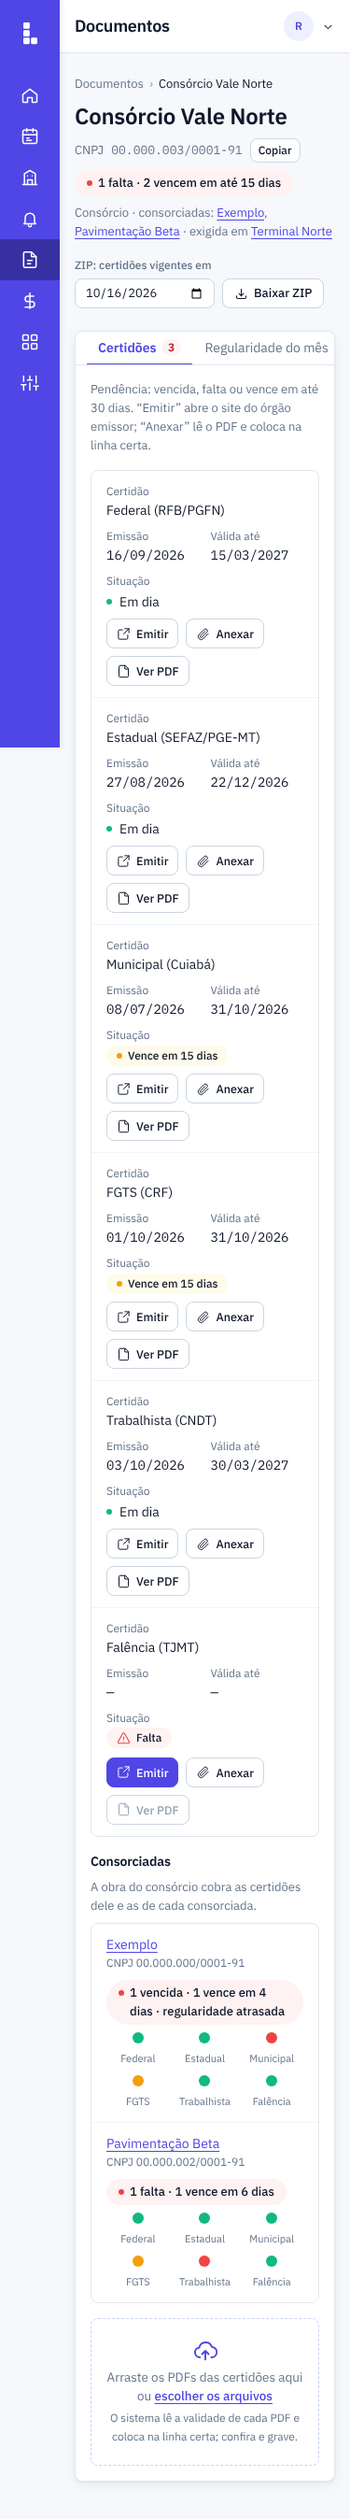
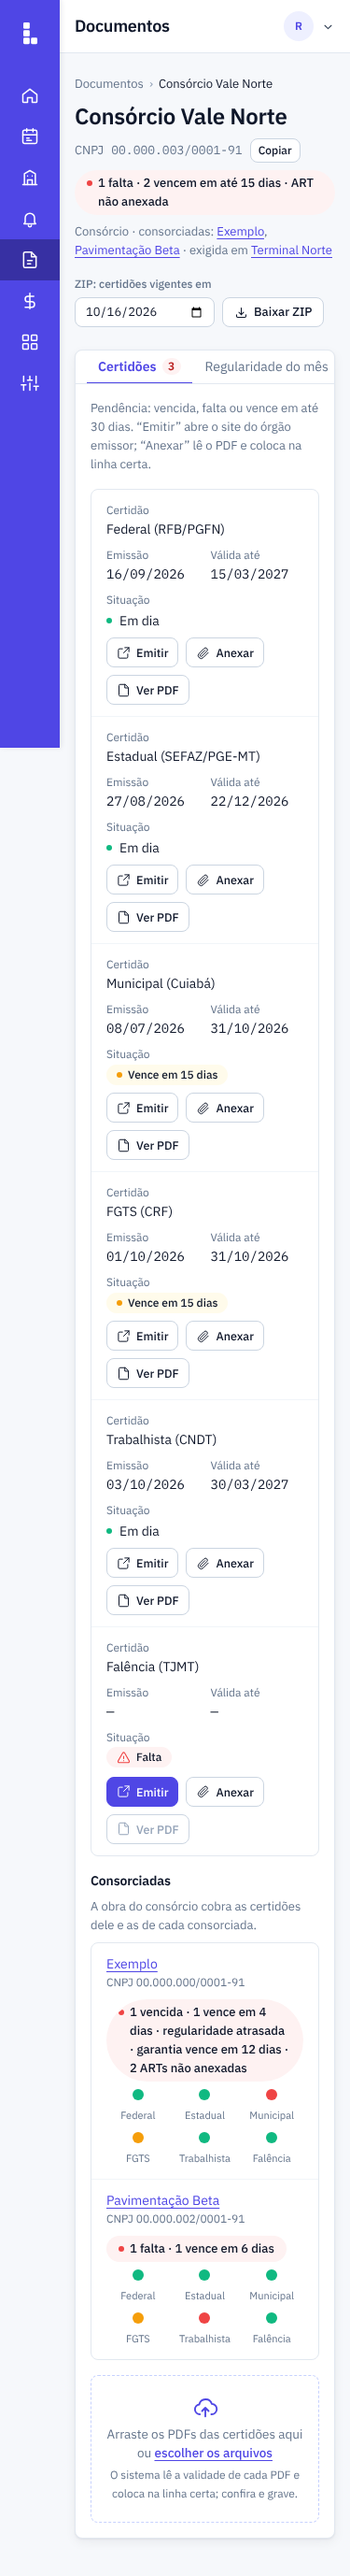
fix: obra sempre visivel em Documentos, pendencia de garantia e ART, redirecionamento e fuso (#161)
Claude-Session: https://claude.ai/code/session_01CFo7T1SbSusYsbRstiKcgn

diff --git a/frontend/src/matriz.ts b/frontend/src/matriz.ts
@@ -31,18 +31,33 @@ export function certidaoPendente(l: LinhaCertidao): boolean {
   return (l.situacao === "ok" || l.situacao === "vencendo") && l.dias !== null && l.dias <= JANELA_DIAS;
 }
 
-/** Quantas pendencias a empresa tem: as certidoes e a regularidade do mes que nao esta' em dia. */
-export function pendenciasDa(e: EmpresaDoc): number {
-  const reg = e.regularidade && e.regularidade.situacao !== "ok" ? 1 : 0;
-  return e.certidoes.filter(certidaoPendente).length + reg;
+/** O que a garantia e a ART das obras contratadas pela empresa pedem dela (#161): a garantia vencida ou na janela de
+ *  atencao e a ART exigida e nao anexada. `garantiasVencidas` sao as que ja' travam. */
+export function pendenciasDeObras(e: EmpresaDoc, obras: ObraDoc[]) {
+  const minhas = obras.filter(k => k.entidade_id === e.entidade_id);
+  const gs = minhas.filter(k => { const n = situacaoGarantia(k.garantia, "").nivel; return n === "acao" || n === "atencao"; });
+  const artsFaltando = minhas.filter(k => situacaoArt(k.art).nivel === "atencao").length;
+  return {
+    garantiasVencidas: gs.filter(k => k.garantia?.situacao === "vencida").length,
+    garantiasVencendo: gs.filter(k => k.garantia?.situacao !== "vencida").map(k => k.garantia!.dias),
+    artsFaltando,
+    total: gs.length + artsFaltando,
+  };
 }
 
-/** 0 = o que ja' trava (certidao exigida vencida ou faltando, regularidade fora do dia); 1 = o que vence em ate'
- *  30 dias; 2 = nada pendente. */
-export function gravidade(e: EmpresaDoc): number {
+/** Quantas pendencias a empresa tem: as certidoes, a regularidade do mes que nao esta' em dia e (com `obras`) a garantia
+ *  e a ART das obras dela. */
+export function pendenciasDa(e: EmpresaDoc, obras: ObraDoc[] = []): number {
+  const reg = e.regularidade && e.regularidade.situacao !== "ok" ? 1 : 0;
+  return e.certidoes.filter(certidaoPendente).length + reg + pendenciasDeObras(e, obras).total;
+}
+
+/** 0 = o que ja' trava (certidao exigida vencida ou faltando, regularidade fora do dia, garantia vencida); 1 = o que
+ *  vence em ate' 30 dias ou pede a ART; 2 = nada pendente. */
+export function gravidade(e: EmpresaDoc, obras: ObraDoc[] = []): number {
   const trava = e.certidoes.some(l => l.exigida && (l.situacao === "vencida" || l.situacao === "faltando"))
-    || (e.regularidade !== null && e.regularidade.situacao !== "ok");
-  return trava ? 0 : pendenciasDa(e) > 0 ? 1 : 2;
+    || (e.regularidade !== null && e.regularidade.situacao !== "ok") || pendenciasDeObras(e, obras).garantiasVencidas > 0;
+  return trava ? 0 : pendenciasDa(e, obras) > 0 ? 1 : 2;
 }
 
 /** Os dias da certidao exigida que vence primeiro (dentro da janela), para desempatar pela mais urgente. */
@@ -52,10 +67,10 @@ function menorDias(e: EmpresaDoc): number {
 
 /** Pela gravidade (o que ja' trava, o que vence, o resto), depois pela que vence primeiro, depois a ordem do
  *  servidor; `soPendentes` e' o filtro da URL. */
-export function matriz(empresas: EmpresaDoc[], soPendentes: boolean): EmpresaDoc[] {
+export function matriz(empresas: EmpresaDoc[], soPendentes: boolean, obras: ObraDoc[] = []): EmpresaDoc[] {
   const ordem = new Map(empresas.map((e, i) => [e.entidade_id, i]));
-  return empresas.filter(e => !soPendentes || pendenciasDa(e) > 0)
-    .sort((a, b) => gravidade(a) - gravidade(b) || menorDias(a) - menorDias(b)
+  return empresas.filter(e => !soPendentes || pendenciasDa(e, obras) > 0)
+    .sort((a, b) => gravidade(a, obras) - gravidade(b, obras) || menorDias(a) - menorDias(b)
       || ordem.get(a.entidade_id)! - ordem.get(b.entidade_id)!);
 }
 
@@ -106,7 +121,7 @@ export function situacaoCertidao(l: LinhaCertidao, validade: string): { texto: s
 
 /** A situacao geral da empresa (a pilula do cartao e do cabecalho): o que ja' trava, o que vence e a regularidade
  *  fora do dia, em uma frase; "Em dia" quando nada pende. */
-export function resumoEmpresa(e: EmpresaDoc): { texto: string; nivel: Nivel; pendencias: number } {
+export function resumoEmpresa(e: EmpresaDoc, obras: ObraDoc[] = []): { texto: string; nivel: Nivel; pendencias: number } {
   const exigidas = e.certidoes.filter(l => l.exigida);
   const vencidas = exigidas.filter(l => l.situacao === "vencida").length;
   const faltas = exigidas.filter(l => l.situacao === "faltando").length;
@@ -118,9 +133,14 @@ export function resumoEmpresa(e: EmpresaDoc): { texto: string; nivel: Nivel; pen
   if (vencendo.length === 1) partes.push(`1 ${venceEm(vencendo[0].dias ?? 0)}`);
   else if (vencendo.length > 1) partes.push(`${vencendo.length} vencem em até ${Math.max(...vencendo.map(l => l.dias ?? 0))} dias`);
   if (regFora) partes.push(`regularidade ${e.regularidade!.situacao === "faltando" ? "não anexada" : "atrasada"}`);
+  const o = pendenciasDeObras(e, obras);
+  if (o.garantiasVencidas) partes.push(o.garantiasVencidas === 1 ? "garantia vencida" : `${o.garantiasVencidas} garantias vencidas`);
+  if (o.garantiasVencendo.length === 1) partes.push(`garantia ${venceEm(o.garantiasVencendo[0])}`);
+  else if (o.garantiasVencendo.length > 1) partes.push(`${o.garantiasVencendo.length} garantias vencendo`);
+  if (o.artsFaltando) partes.push(o.artsFaltando === 1 ? "ART não anexada" : `${o.artsFaltando} ARTs não anexadas`);
   const texto = partes.length ? partes.join(" · ") : "em dia";
   return { texto: texto.charAt(0).toUpperCase() + texto.slice(1),
-    nivel: vencidas || faltas ? "acao" : partes.length ? "atencao" : "ok", pendencias: pendenciasDa(e) };
+    nivel: vencidas || faltas || o.garantiasVencidas ? "acao" : partes.length ? "atencao" : "ok", pendencias: pendenciasDa(e, obras) };
 }
 
 /** A certidao exigida e vigente que vence primeiro (o "Proxima a vencer" do cartao), ou null. */

diff --git a/frontend/src/Documentos.test.tsx b/frontend/src/Documentos.test.tsx
@@ -23,10 +23,10 @@ test("um cartão por empresa, com a pendência primeiro, a situação geral e a 
   render(<Documentos usuario={usuario} />);
   await screen.findByRole("link", { name: "Lotufo" });
   // o servidor mandou a empresa em dia primeiro; a que tem pendência sobe
-  expect(nomes()).toEqual(["Lotufo", "Beta Ltda", "Consórcio Alfa"]);
+  expect(nomes()).toEqual(["Lotufo", "Consórcio Sem Certidão", "Beta Ltda", "Consórcio Alfa"]);
   const lotufo = screen.getByRole("link", { name: "Lotufo" }).closest("article")!;
   const c = within(lotufo);
-  c.getByText("1 vencida · 1 vence em 4 dias · regularidade atrasada");
+  c.getByText("1 vencida · 1 vence em 4 dias · regularidade atrasada · garantia vence em 12 dias · ART não anexada");
   c.getByText(/Próxima a vencer:/);
   expect(lotufo.textContent).toContain("FGTS em 27/09/2026");
   c.getByText("31.200.101/0001-30");
@@ -53,7 +53,8 @@ test("'Só as com pendência' filtra pela URL e diz o recorte", async () => {
   render(<Documentos usuario={usuario} busca={{ pendentes: "1" }} />);
   await screen.findByRole("link", { name: "Lotufo" });
   expect(screen.queryByRole("link", { name: "Beta Ltda" })).toBeNull();
-  screen.getByText(/Mostrando a única com pendência, de 3 empresas/);
+  screen.getByRole("link", { name: "Consórcio Sem Certidão" });
+  screen.getByText(/Mostrando as 2 com pendência, de 4 empresas/);
   expect((screen.getByRole("checkbox", { name: "Só as com pendência" }) as HTMLInputElement).checked).toBe(true);
 });
 
@@ -113,6 +114,7 @@ test("o ZIP abre uma janela com a data e uma caixa por empresa, e diz o que a em
   expect((screen.getByLabelText("Certidões vigentes em") as HTMLInputElement).value).toBe("2026-09-23");
   fireEvent.click(screen.getByRole("checkbox", { name: "Beta Ltda" }));
   fireEvent.click(screen.getByRole("checkbox", { name: "Consórcio Alfa" }));
+  fireEvent.click(screen.getByRole("checkbox", { name: "Consórcio Sem Certidão" }));
   fireEvent.click(screen.getByRole("button", { name: "Baixar ZIP" }));
   await screen.findByText(/Lotufo: nenhuma certidão vigente em 2026-09-23/);
   expect(buscar).toHaveBeenCalledTimes(1);
@@ -122,4 +124,19 @@ test("o ZIP abre uma janela com a data e uma caixa por empresa, e diz o que a em
 test("competência pelo nome do arquivo do DP", () => {
   expect(competenciaDoNome("042026 - LOTUFO ENGENHARIA.pdf")).toBe("2026-04");
   expect(competenciaDoNome("Documentos Lotufo.pdf")).toBe("");
+});
+
+test("link salvo da tela antiga (?empresa=N) abre a página da empresa, trocando o endereço", async () => {
+  window.history.replaceState(null, "", "/documentos?empresa=3#emp-3");
+  render(<Documentos usuario={usuario} busca={{ empresa: "3" }} />);
+  await waitFor(() => expect(window.location.pathname).toBe("/documentos/3"));
+  expect(window.location.search).toBe("");
+});
+
+test("a garantia vencida de uma obra conta como pendência do cartão e a empresa sem certidão continua na lista", async () => {
+  render(<Documentos usuario={usuario} />);
+  const c = (await screen.findByRole("link", { name: "Consórcio Sem Certidão" })).closest("article")!;
+  within(c).getByText("Garantia de Obra Delta: vencida");
+  within(c).getByText("Garantia vencida");
+  within(c).getByText("Nenhuma certidão vigente");
 });

diff --git a/frontend/src/Documentos.tsx b/frontend/src/Documentos.tsx
@@ -3,10 +3,10 @@ import { IconeAlerta, IconeRelogio } from "./icones";
 import { Link } from "./Link";
 import type { Usuario } from "./Login";
 import {
-  certidoesOrdenadas, JANELA_DIAS, matriz, NOME_CURTO, proximaAVencer, resumoEmpresa, situacaoArt, situacaoCertidao,
+  certidoesOrdenadas, JANELA_DIAS, matriz, NOME_CURTO, pendenciasDa, proximaAVencer, resumoEmpresa, situacaoArt, situacaoCertidao,
   situacaoGarantia, type EmpresaDoc, type Nivel, type ObraDoc,
 } from "./matriz";
-import { trocarBusca, type Busca } from "./rota";
+import { substituir, trocarBusca, type Busca } from "./rota";
 import { fmtCompetencia as mesBR, fmtDataPura } from "./tempo";
 import { AnexarCertidoes, CnpjCopiar, Pilula, Ponto } from "./documentosComum";
 import { useCopiarCnpj, usePainel } from "./documentosDados";
@@ -115,7 +115,7 @@ function Cartao({ e, nomes, contratos, copia, aoCopiar }: {
   e: EmpresaDoc; nomes: Map<number, string>; contratos: ObraDoc[];
   copia: { entidade_id: number; ok: boolean } | null; aoCopiar: () => void;
 }) {
-  const r = resumoEmpresa(e);
+  const r = resumoEmpresa(e, contratos);
   const proxima = proximaAVencer(e);
   const extras: { nivel: Nivel | null; texto: string; titulo?: string }[] = [];
   if (e.regularidade) {
@@ -175,11 +175,16 @@ export default function Documentos({ usuario, busca = {} }: { usuario: Usuario; 
   const [anuncio, setAnuncio] = useState("");
   const [zip, setZip] = useState(false);
   const { copiar, copia } = useCopiarCnpj(setAnuncio);
+  // Link salvo da tela antiga (/documentos?empresa=N): abre a pagina da empresa, trocando o endereco no lugar.
+  const empresaAntiga = /^[1-9][0-9]{0,14}$/.test(busca.empresa ?? "") ? Number(busca.empresa) : null;
+  useEffect(() => {
+    if (empresaAntiga !== null) substituir({ tela: "documentos-empresa", id: empresaAntiga }, { semBusca: true });
+  }, [empresaAntiga]);
 
   // A ordem (e, com ?pendentes=1, quem aparece) e' a da carga e a de cada troca de filtro; o que muda depois de
   // gravar fica no lugar ate' a pagina recarregar, para a pessoa ver o resultado no cartao em que estava.
   const carregado = painel !== null;
-  const ordem = useMemo(() => painel ? matriz(painel.empresas, soPendentes).map(e => e.entidade_id) : [],
+  const ordem = useMemo(() => painel ? matriz(painel.empresas, soPendentes, painel.contratos ?? []).map(e => e.entidade_id) : [],
     // eslint-disable-next-line react-hooks/exhaustive-deps
     [carregado, soPendentes]);
 
@@ -187,7 +192,7 @@ export default function Documentos({ usuario, busca = {} }: { usuario: Usuario; 
   const porId = new Map(empresas.map(e => [e.entidade_id, e]));
   const lista = ordem.map(id => porId.get(id)).filter((e): e is EmpresaDoc => e !== undefined);
   const nomes = new Map(empresas.map(e => [e.entidade_id, e.entidade]));
-  const pendentes = empresas.filter(e => resumoEmpresa(e).pendencias > 0).length;
+  const pendentes = empresas.filter(e => pendenciasDa(e, painel?.contratos ?? []) > 0).length;
   const qtd = empresas.length === 1 ? "1 empresa" : `${empresas.length} empresas`;
   const recorte = soPendentes
     ? `Mostrando ${pendentes === 1 ? "a única" : `as ${pendentes}`} com pendência, de ${qtd}`

diff --git a/frontend/src/DocumentosEmpresa.test.tsx b/frontend/src/DocumentosEmpresa.test.tsx
@@ -26,7 +26,7 @@ test("cabeçalho com caminho, nome, CNPJ, situação e as obras que exigem a emp
   expect(within(caminho).getByRole("link", { name: "Documentos" }).getAttribute("href")).toBe("/documentos");
   expect(within(caminho).getByText("Lotufo").getAttribute("title")).toBe("Lotufo");
   screen.getByText("31.200.101/0001-30");
-  screen.getByText("1 vencida · 1 vence em 4 dias · regularidade atrasada");
+  screen.getByText("1 vencida · 1 vence em 4 dias · regularidade atrasada · garantia vence em 12 dias · ART não anexada");
   expect(screen.getByRole("link", { name: "Obra Alfa" }).getAttribute("href")).toBe("/obras/5/documentos");
   screen.getByText(/também consorciada em/);
   expect(screen.getByRole("link", { name: "Consórcio Alfa" }).getAttribute("href")).toBe("/documentos/2");
@@ -184,7 +184,7 @@ test("consórcio: as consorciadas com a situação de cada uma; a página diz qu
   screen.getByText(/Consórcio · consorciadas:/);
   const lista = screen.getByRole("heading", { name: "Consorciadas" }).parentElement!;
   expect(within(lista).getByRole("link", { name: "Lotufo" }).getAttribute("href")).toBe("/documentos/1");
-  within(lista).getByText("1 vencida · 1 vence em 4 dias · regularidade atrasada");
+  within(lista).getByText("1 vencida · 1 vence em 4 dias · regularidade atrasada · garantia vence em 12 dias · ART não anexada");
   within(lista).getByText("Em dia");
 });
 
@@ -192,4 +192,11 @@ test("empresa que não existe no painel diz isso e volta para a lista", async ()
   render(<DocumentosEmpresa usuario={usuario} id={99} />);
   await screen.findByText("Essa empresa não tem documento exigido.");
   expect(screen.getByRole("link", { name: "Ver todas as empresas" }).getAttribute("href")).toBe("/documentos");
+});
+
+test("obra de empresa sem certidão exigida continua visível na aba Garantia e ART (revisor, rodada 1)", async () => {
+  render(<DocumentosEmpresa usuario={usuario} id={4} aba="garantia" />);
+  const delta = (await screen.findByRole("rowheader", { name: "Obra Delta" })).closest("tr")!;
+  expect(delta.textContent).toContain("vencida");
+  expect(delta.textContent).toContain("venceu em 01/09/2026");
 });

diff --git a/frontend/src/matriz.test.ts b/frontend/src/matriz.test.ts
@@ -18,7 +18,7 @@ describe("matriz de documentos", () => {
   ];
 
   it("pendência é certidão exigida vencida, faltando ou vencendo em até 30 dias, e a regularidade fora do dia", () => {
-    expect(empresas.map(pendenciasDa)).toEqual([1, 0, 3]);
+    expect(empresas.map(x => pendenciasDa(x))).toEqual([1, 0, 3]);
   });
 
   it("pela gravidade: o que já trava, depois o que vence (o mais urgente antes); o filtro deixa só as pendentes", () => {
@@ -83,5 +83,24 @@ describe("redesenho de Documentos (#161)", () => {
     expect(situacaoArt({ numero: "9", anexada: true, exigida: true })).toEqual({ texto: "anexada", nota: "nº 9", nivel: "ok" });
     expect(situacaoArt({ numero: null, anexada: false, exigida: true }).nivel).toBe("atencao");
     expect(situacaoArt({ numero: null, anexada: false, exigida: false }).texto).toBe("não exigida");
+  });
+});
+
+describe("garantia e ART como pendência da empresa (#161)", () => {
+  const obra = (ent: number, dias: number, situacao: "ok" | "vencendo" | "vencida", artAnexada = true) => ({
+    contrato_id: ent, obra: `O${ent}`, entidade_id: ent,
+    garantia: { apolice: null, vigencia_fim: "2026-12-01", dias, origem: "contrato" as const, situacao },
+    art: { numero: null, anexada: artAnexada, exigida: true } });
+  const ok = (id: number) => e(id, [l("federal", "ok", 90)]);
+
+  it("conta na pílula, na ordenação, no filtro e na contagem", () => {
+    const obras = [obra(2, 20, "vencendo"), obra(3, -5, "vencida", false), obra(4, 200, "ok")];
+    expect(resumoEmpresa(ok(2), obras)).toEqual({ texto: "Garantia vence em 20 dias", nivel: "atencao", pendencias: 1 });
+    expect(resumoEmpresa(ok(3), obras)).toEqual({ texto: "Garantia vencida · ART não anexada", nivel: "acao", pendencias: 2 });
+    expect(resumoEmpresa(ok(4), obras).texto).toBe("Em dia");
+    expect(pendenciasDa(ok(3))).toBe(0);                                   // sem as obras, nada muda
+    const lista = [ok(4), ok(2), ok(3)];
+    expect(matriz(lista, false, obras).map(x => x.entidade_id)).toEqual([3, 2, 4]);
+    expect(matriz(lista, true, obras).map(x => x.entidade_id)).toEqual([3, 2]);
   });
 });

diff --git a/frontend/src/documentosTeste.ts b/frontend/src/documentosTeste.ts
@@ -11,6 +11,11 @@ export const PAINEL = {
   hoje: "2026-09-23",
   empresas: [
     {
+      // consorcio cujo orgao nao exige certidao nenhuma: a obra dele (garantia vencida) tem de continuar visivel
+      entidade_id: 4, entidade: "Consórcio Sem Certidão", cnpj: "31200808000144", papel: "consorcio", regularidade_exigida: false,
+      regularidade: null, consorciadas: [], consorcios: [], obras: [], regularidades_anexadas: [], certidoes: [],
+    },
+    {
       entidade_id: 3, entidade: "Beta Ltda", cnpj: "31200606000102", papel: "consorciada", regularidade_exigida: false,
       regularidade: null, consorcios: [2], consorciadas: [], obras: [{ contrato_id: 7, obra: "Obra Gama" }],
       regularidades_anexadas: [],
@@ -43,6 +48,8 @@ export const PAINEL = {
     { contrato_id: 5, obra: "Obra Alfa", entidade_id: 1, art: { numero: "1234567", anexada: true, exigida: true },
       garantia: { apolice: "AP-9", vigencia_fim: "2026-10-05", dias: 12, origem: "endosso" as const, situacao: "vencendo" as const } },
     { contrato_id: 6, obra: "Obra Beta", entidade_id: 1, art: { numero: null, anexada: false, exigida: true }, garantia: null },
+    { contrato_id: 8, obra: "Obra Delta", entidade_id: 4, art: { numero: null, anexada: false, exigida: false },
+      garantia: { apolice: null, vigencia_fim: "2026-09-01", dias: -22, origem: "contrato" as const, situacao: "vencida" as const } },
     { contrato_id: 7, obra: "Obra Gama", entidade_id: 2, art: { numero: null, anexada: false, exigida: false }, garantia: null },
   ],
 };

diff --git a/frontend/src/documentos.css b/frontend/src/documentos.css
@@ -38,12 +38,12 @@
 .doc-pilula { font-size: 13px; line-height: 20px; padding: 3px 12px; }
 
 .doc-cnpj { display: flex; flex-wrap: wrap; align-items: center; gap: 4px 8px; font-size: 13px; color: var(--texto-2); }
-.doc-cnpj .num { font-family: var(--fonte-num); user-select: all; }
+.doc-cnpj .num { font-family: var(--fonte-num); user-select: all; position: relative; z-index: 1; }
 .doc-cnpj button { position: relative; z-index: 1; height: 26px; padding: 0 8px; font-size: 12px; }
 .doc-copia { font-size: 12px; color: var(--ok); }
 
 /* os seis pontos numa linha; no cartao estreito (celular), em duas linhas de tres */
-.doc-pontos { list-style: none; margin: 0; padding: 0; display: grid; grid-template-columns: repeat(6, minmax(0, 1fr)); gap: 10px 4px; }
+.doc-pontos { position: relative; z-index: 1; list-style: none; margin: 0; padding: 0; display: grid; grid-template-columns: repeat(6, minmax(0, 1fr)); gap: 10px 4px; }
 .doc-pontos li { display: grid; justify-items: center; gap: 6px; font-size: 12px; color: var(--texto-2); text-align: center; }
 @container (max-width: 330px) { .emp-cartao .doc-pontos { grid-template-columns: repeat(3, minmax(0, 1fr)); } }
 .doc-ponto { display: inline-block; width: 12px; height: 12px; flex: none; border-radius: var(--raio-pilula); background: var(--linha-forte); }

diff --git a/frontend/src/DocumentosEmpresa.tsx b/frontend/src/DocumentosEmpresa.tsx
@@ -89,7 +89,7 @@ export default function DocumentosEmpresa({ usuario, id, aba = "certidoes", orig
   const nReg = e?.regularidade && e.regularidade.situacao !== "ok" ? 1 : 0;
   const contas: Record<AbaDocumentos, number> = { certidoes: nCert, regularidade: nReg, garantia: nGarantia };
 
-  const r = e ? resumoEmpresa(e) : null;
+  const r = e ? resumoEmpresa(e, painel?.contratos ?? []) : null;
   const linkEmpresa = (x: number) => {
     const o = porId.get(x);
     return o ? <Link para={{ tela: "documentos-empresa", id: x }}>{o.entidade}</Link> : null;
@@ -249,7 +249,7 @@ export default function DocumentosEmpresa({ usuario, id, aba = "certidoes", orig
                         {e.consorciadas!.map(x => {
                           const o = porId.get(x);
                           if (!o) return null;
-                          const ro = resumoEmpresa(o);
+                          const ro = resumoEmpresa(o, painel.contratos ?? []);
                           return (
                             <li key={x}>
                               <div>

diff --git a/frontend/src/Alertas.tsx b/frontend/src/Alertas.tsx
@@ -36,7 +36,7 @@ export function destinoDoAviso(a: Aviso): { para: Rota; secao?: string; busca?: 
   if (!d) return null;
   // a empresa em Documentos: a pagina dela (#161); o aviso da regularidade do mes leva direto a aba dela
   if (d.tela === "documentos") return a.entidade_id
-    ? { para: { tela: "documentos-empresa", id: a.entidade_id, aba: a.tipo === "regularidade_mes" ? "regularidade" : undefined } }
+    ? { para: { tela: "documentos-empresa", id: a.entidade_id, aba: a.tipo === "regularidade_mes" ? "regularidade" : a.tipo === "garantia_vencendo" || a.tipo === "art_nao_anexada" ? "garantia" : undefined } }
     : { para: { tela: "documentos" } };
   if (d.aba === "notas" && a.medicao_id) return { para: { tela: "medicao", obra: d.id, id: a.medicao_id }, secao: "notas" };
   if (d.aba === "reajuste" && a.data_base_mes) return { para: { tela: "obra", id: d.id, aba: "reajuste" }, secao: `db-${a.data_base_mes}` };

diff --git a/frontend/src/Alertas.test.ts b/frontend/src/Alertas.test.ts
@@ -45,3 +45,13 @@ describe("avisos da obra", () => {
       "nota 1843 diverge do espelho", "pleito enviado há 187 dias", "execução termina em 22 dias"]);
   });
 });
+
+describe("aviso de garantia e ART (#161)", () => {
+  it("leva à aba Garantia e ART da empresa contratada", () => {
+    for (const tipo of ["garantia_vencendo", "art_nao_anexada"]) {
+      const a: Aviso = { ...base, tipo, contrato_id: 7, destino: { tela: "documentos" }, entidade_id: 2 };
+      const d = destinoDoAviso(a)!;
+      expect(hrefDe(d.para, d.busca, d.secao)).toBe("/documentos/2/garantia");
+    }
+  });
+});

diff --git a/frontend/src/rota.tsx b/frontend/src/rota.tsx
@@ -272,9 +272,9 @@ export function irHref(href: string) {
 }
 
 /** Troca a tela no lugar, mantendo filtros, secao e origem (redirect de rota antiga, raiz -> entrada). */
-export function substituir(destino: Rota) {
+export function substituir(destino: Rota, opcoes: { semBusca?: boolean } = {}) {
   window.history.replaceState(window.history.state, "",
-    `${caminhoDe(destino)}${window.location.search}${window.location.hash}`);
+    opcoes.semBusca ? caminhoDe(destino) : `${caminhoDe(destino)}${window.location.search}${window.location.hash}`);
   avisar();
 }
 

diff --git a/backend/tests/test_documentos.py b/backend/tests/test_documentos.py
@@ -226,3 +226,32 @@ def test_painel_diz_a_composicao_do_consorcio_o_dono_de_cada_obra_e_as_regularid
     assert [a["competencia"] for a in anexadas] == ["2026-07", "2026-06"]
     assert set(anexadas[0]) == {"id", "competencia", "anexada_em"} and len(anexadas[0]["anexada_em"]) == 10
     assert por_id[3]["regularidades_anexadas"] == []
+
+
+def test_empresa_contratada_entra_no_painel_mesmo_sem_certidao_exigida(conn):
+    # revisor, rodada 1: o consorcio cujo orgao so' exige a regularidade ficava fora e a garantia dele sumia da tela
+    _consorcio(conn)
+    cid = _contrato(conn, _orgao(conn, ["regularidade"], []), entidade_id=2)
+    p = documentos.painel(conn)
+    assert 2 in {e["entidade_id"] for e in p["empresas"]}
+    assert {o["contrato_id"]: o["entidade_id"] for o in p["contratos"]}[cid] == 2
+
+
+def test_anexada_em_da_regularidade_e_o_dia_de_cuiaba(conn):
+    # 01:30 UTC de 09/07 ainda e' 21:30 de 08/07 em Cuiaba
+    conn.execute("INSERT INTO regularidades (entidade_id, competencia, arquivo, sha256, tamanho, criado_em) "
+                 "VALUES (1, '2026-06', 'r.pdf', ?, 1, '2026-07-09 01:30:00')", ("a" * 64,))
+    conn.commit()
+    _contrato(conn, _orgao(conn, ["regularidade"], []))
+    e = {x["entidade_id"]: x for x in documentos.painel(conn)["empresas"]}[1]
+    assert e["regularidades_anexadas"][0]["anexada_em"] == "2026-07-08"
+
+
+def test_aviso_de_garantia_leva_a_empresa_contratada(conn):
+    from app import avisos
+    _consorcio(conn)
+    cid = _contrato(conn, _orgao(conn, ["fgts"], []), entidade_id=2)
+    conn.execute("UPDATE contratos SET garantia_vigencia_fim='2026-09-30', garantia_apolice='A1' WHERE id=?", (cid,))
+    conn.commit()
+    g = [a for a in avisos.listar(conn, D(2026, 9, 23)) if a["tipo"] == "garantia_vencendo"]
+    assert g and g[0]["entidade_id"] == 2
